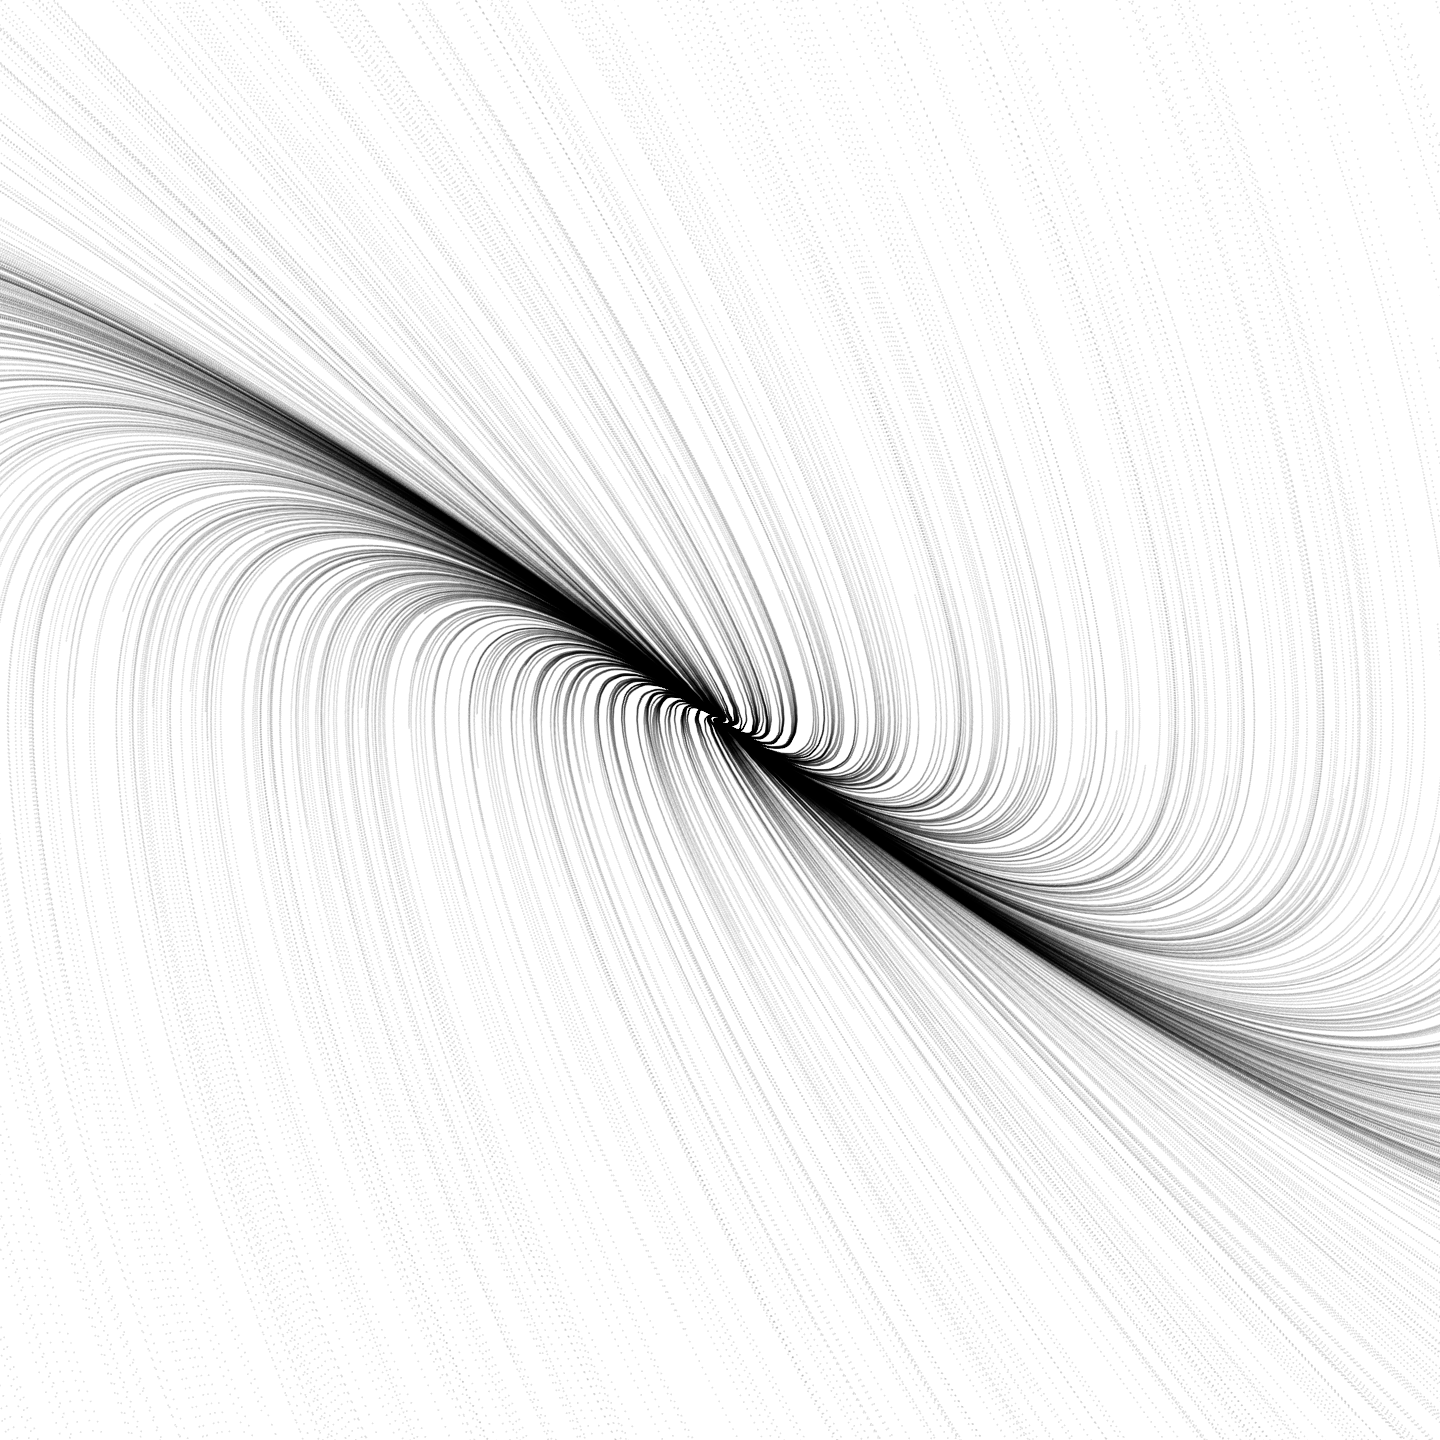
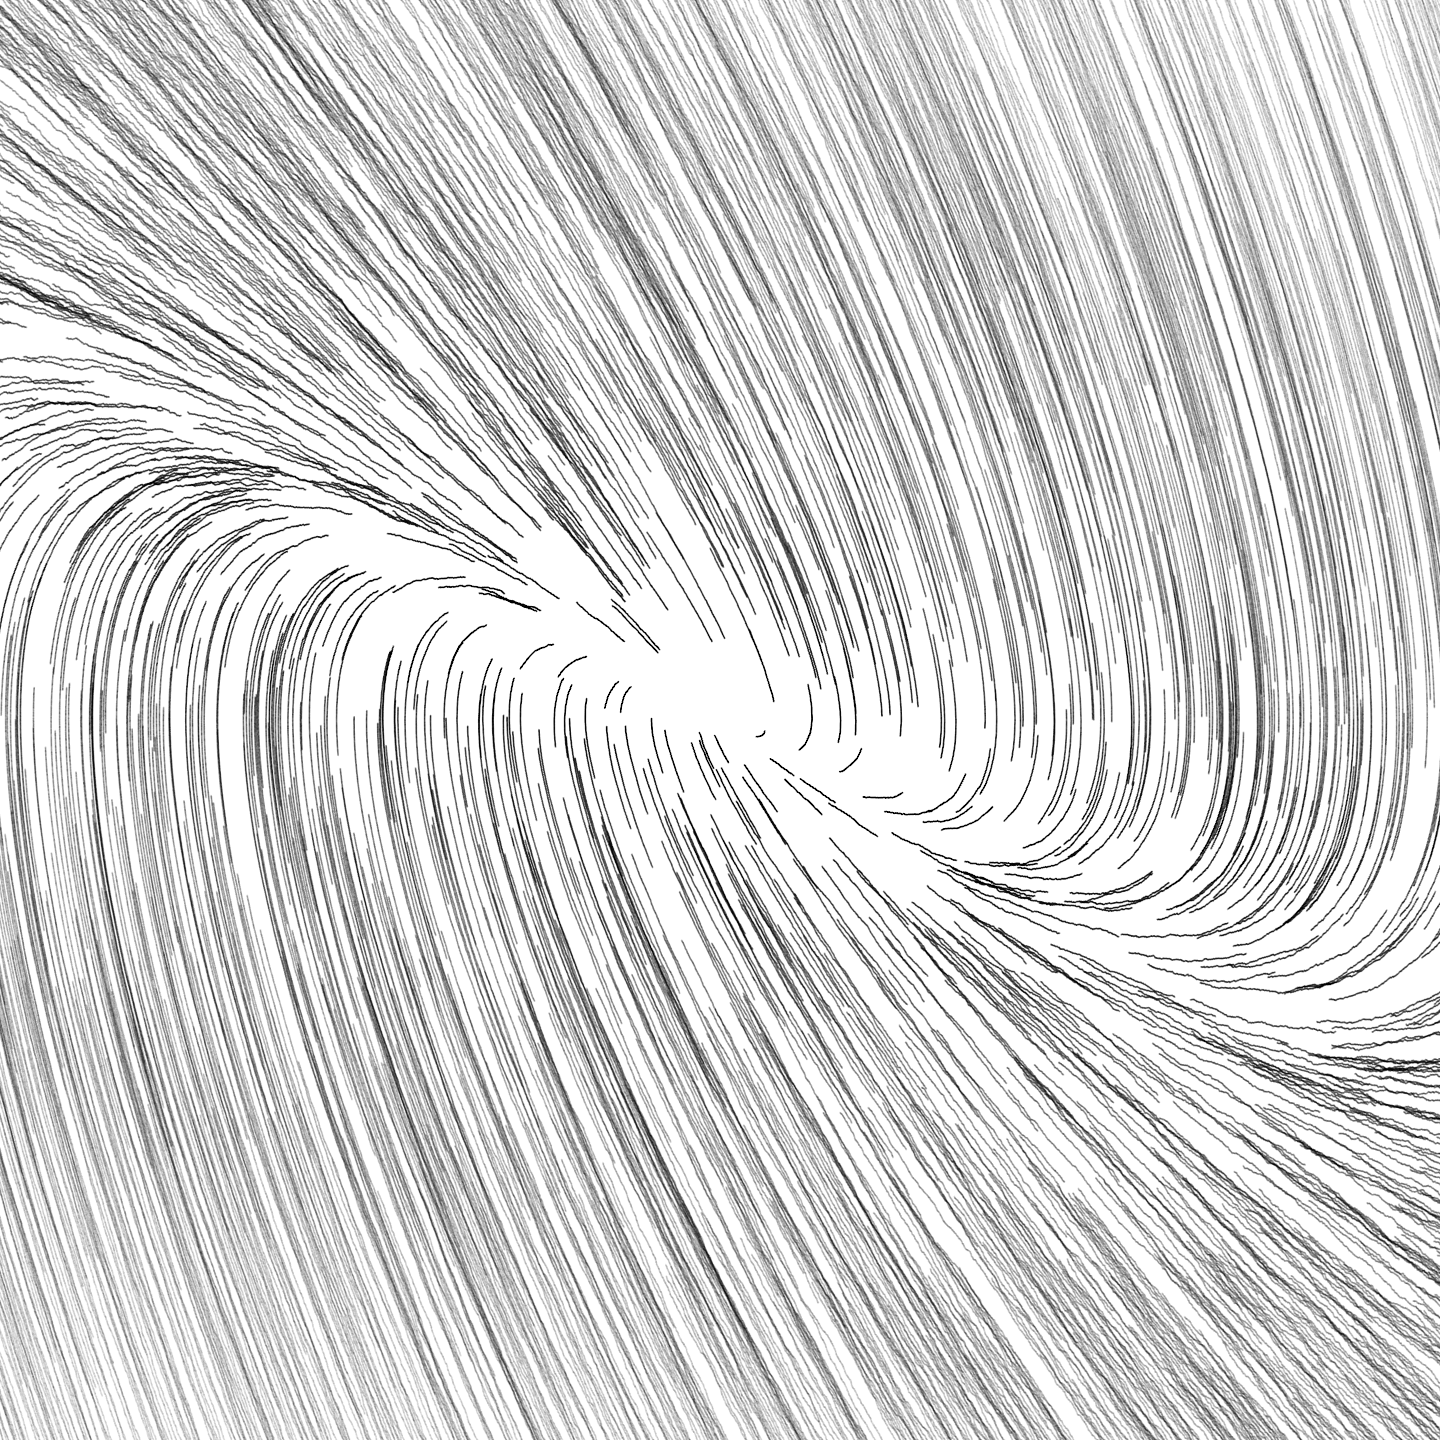
that's better :)

diff --git a/day-08-chaotic/src/main.rs b/day-08-chaotic/src/main.rs
@@ -2,7 +2,8 @@
 use nannou::prelude::*;
 use rand::prelude::*;
 
-const N: usize = 10000;
+const N: usize = 4000;
+const T: usize = 2000;
 //const S: f32   = 100;
 //const ds: f32  = 0.01;
 const MAX_TT: f32 = 10.0;
@@ -40,21 +41,23 @@ fn view(app: &App, frame: Frame) {
 
     let mut r: f32;
     let mut a: f32;
+    let mut x: f32;
+    let mut y: f32;
 
     // For each point...
+    let ds = 0.001;
     for ii in 0..N {
-      let (mut x, mut y) = (points[ii].0, points[ii].1);
-      let ds = 0.001;
+      (x, y) = (points[ii].0, points[ii].1);
 
-      for t in 0..5000 {
+      for t in 0..T {
         // Iterate a bit
         
         (r, a) = xy_to_polar(x, y);
-        r  += -r.sin()*ds;
-        a  += -ds/2.0;
+        r  += -r.sin()*ds*randrange(0.,1.);
+        a  += -ds/2.0*randrange(0.,1.);
         (x, y) = polar_to_xy(r, a);
-        x  += y.sin()*ds;
-        y  -= y*ds;
+        x  += y.sin()*ds*randrange(0.,1.);
+        y  -= y*ds*randrange(0.,1.);
 
 
         // Draw
